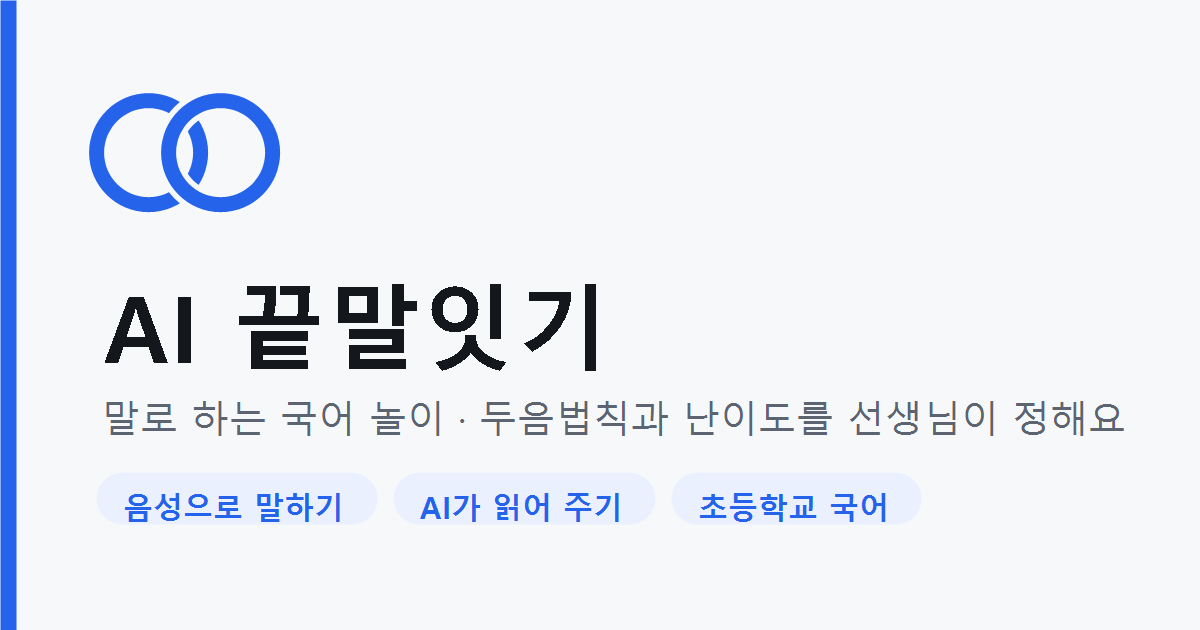
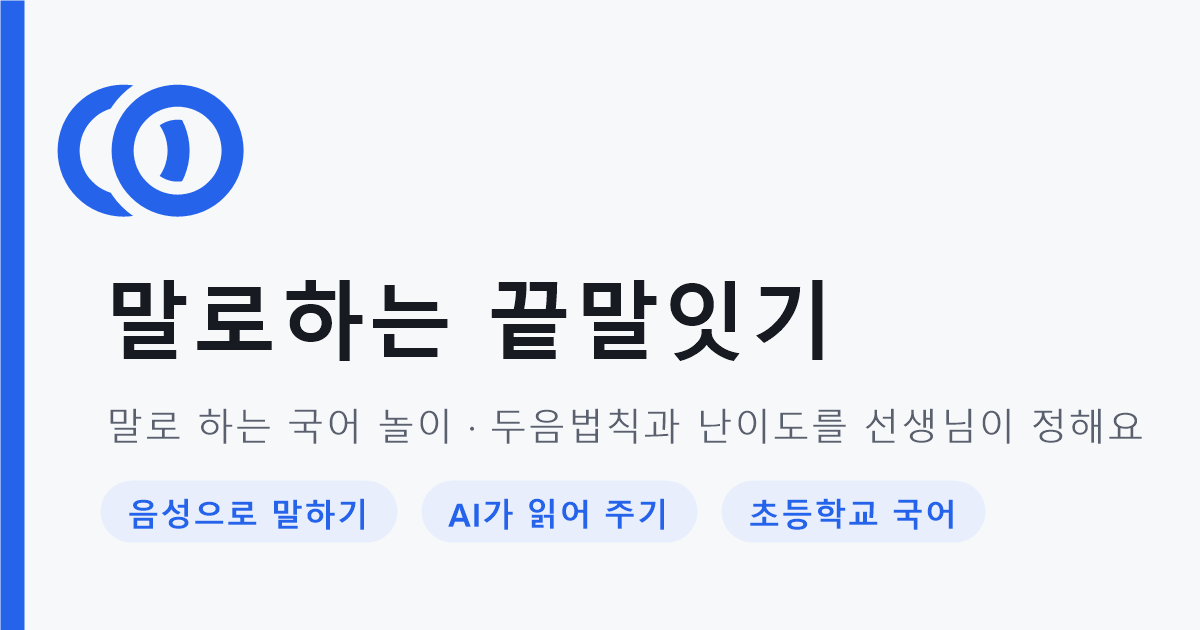
앱 이름 말로하는 끝말잇기로 변경, PWA 준비(manifest·PNG 아이콘), OG 이미지 갱신

diff --git a/index.html b/index.html
@@ -3,11 +3,11 @@
 <head>
 <meta charset="utf-8">
 <meta name="viewport" content="width=device-width, initial-scale=1, maximum-scale=1, viewport-fit=cover">
-<title>AI 끝말잇기 — 초등 국어</title>
+<title>말로하는 끝말잇기 — 초등 국어</title>
 <meta name="description" content="말로 하는 끝말잇기. 학생이 말한 낱말을 AI가 알아듣고 이어 갑니다. 두음법칙과 난이도를 선생님이 정할 수 있어요.">
 <meta name="theme-color" content="#F7F8FA">
 <meta name="apple-mobile-web-app-capable" content="yes">
-<meta property="og:title" content="AI 끝말잇기 — 초등 국어">
+<meta property="og:title" content="말로하는 끝말잇기">
 <meta property="og:description" content="말로 하는 끝말잇기. 두음법칙·난이도를 선생님이 정할 수 있어요.">
 <meta property="og:type" content="website">
 <meta property="og:image" content="/og.png">
@@ -16,8 +16,9 @@
 <meta property="og:image:height" content="630">
 <meta name="twitter:card" content="summary_large_image">
 <meta name="twitter:image" content="/og.png">
+<link rel="manifest" href="/manifest.json">
 <link rel="icon" href="/favicon.svg" type="image/svg+xml">
-<link rel="apple-touch-icon" href="/favicon.svg">
+<link rel="apple-touch-icon" href="/icons/icon-192.png">
 <link rel="preconnect" href="https://cdn.jsdelivr.net">
 <link rel="stylesheet" href="https://cdn.jsdelivr.net/gh/orioncactus/pretendard@v1.3.9/dist/web/variable/pretendardvariable-dynamic-subset.min.css">
 <link rel="stylesheet" href="css/style.css?v=13">
